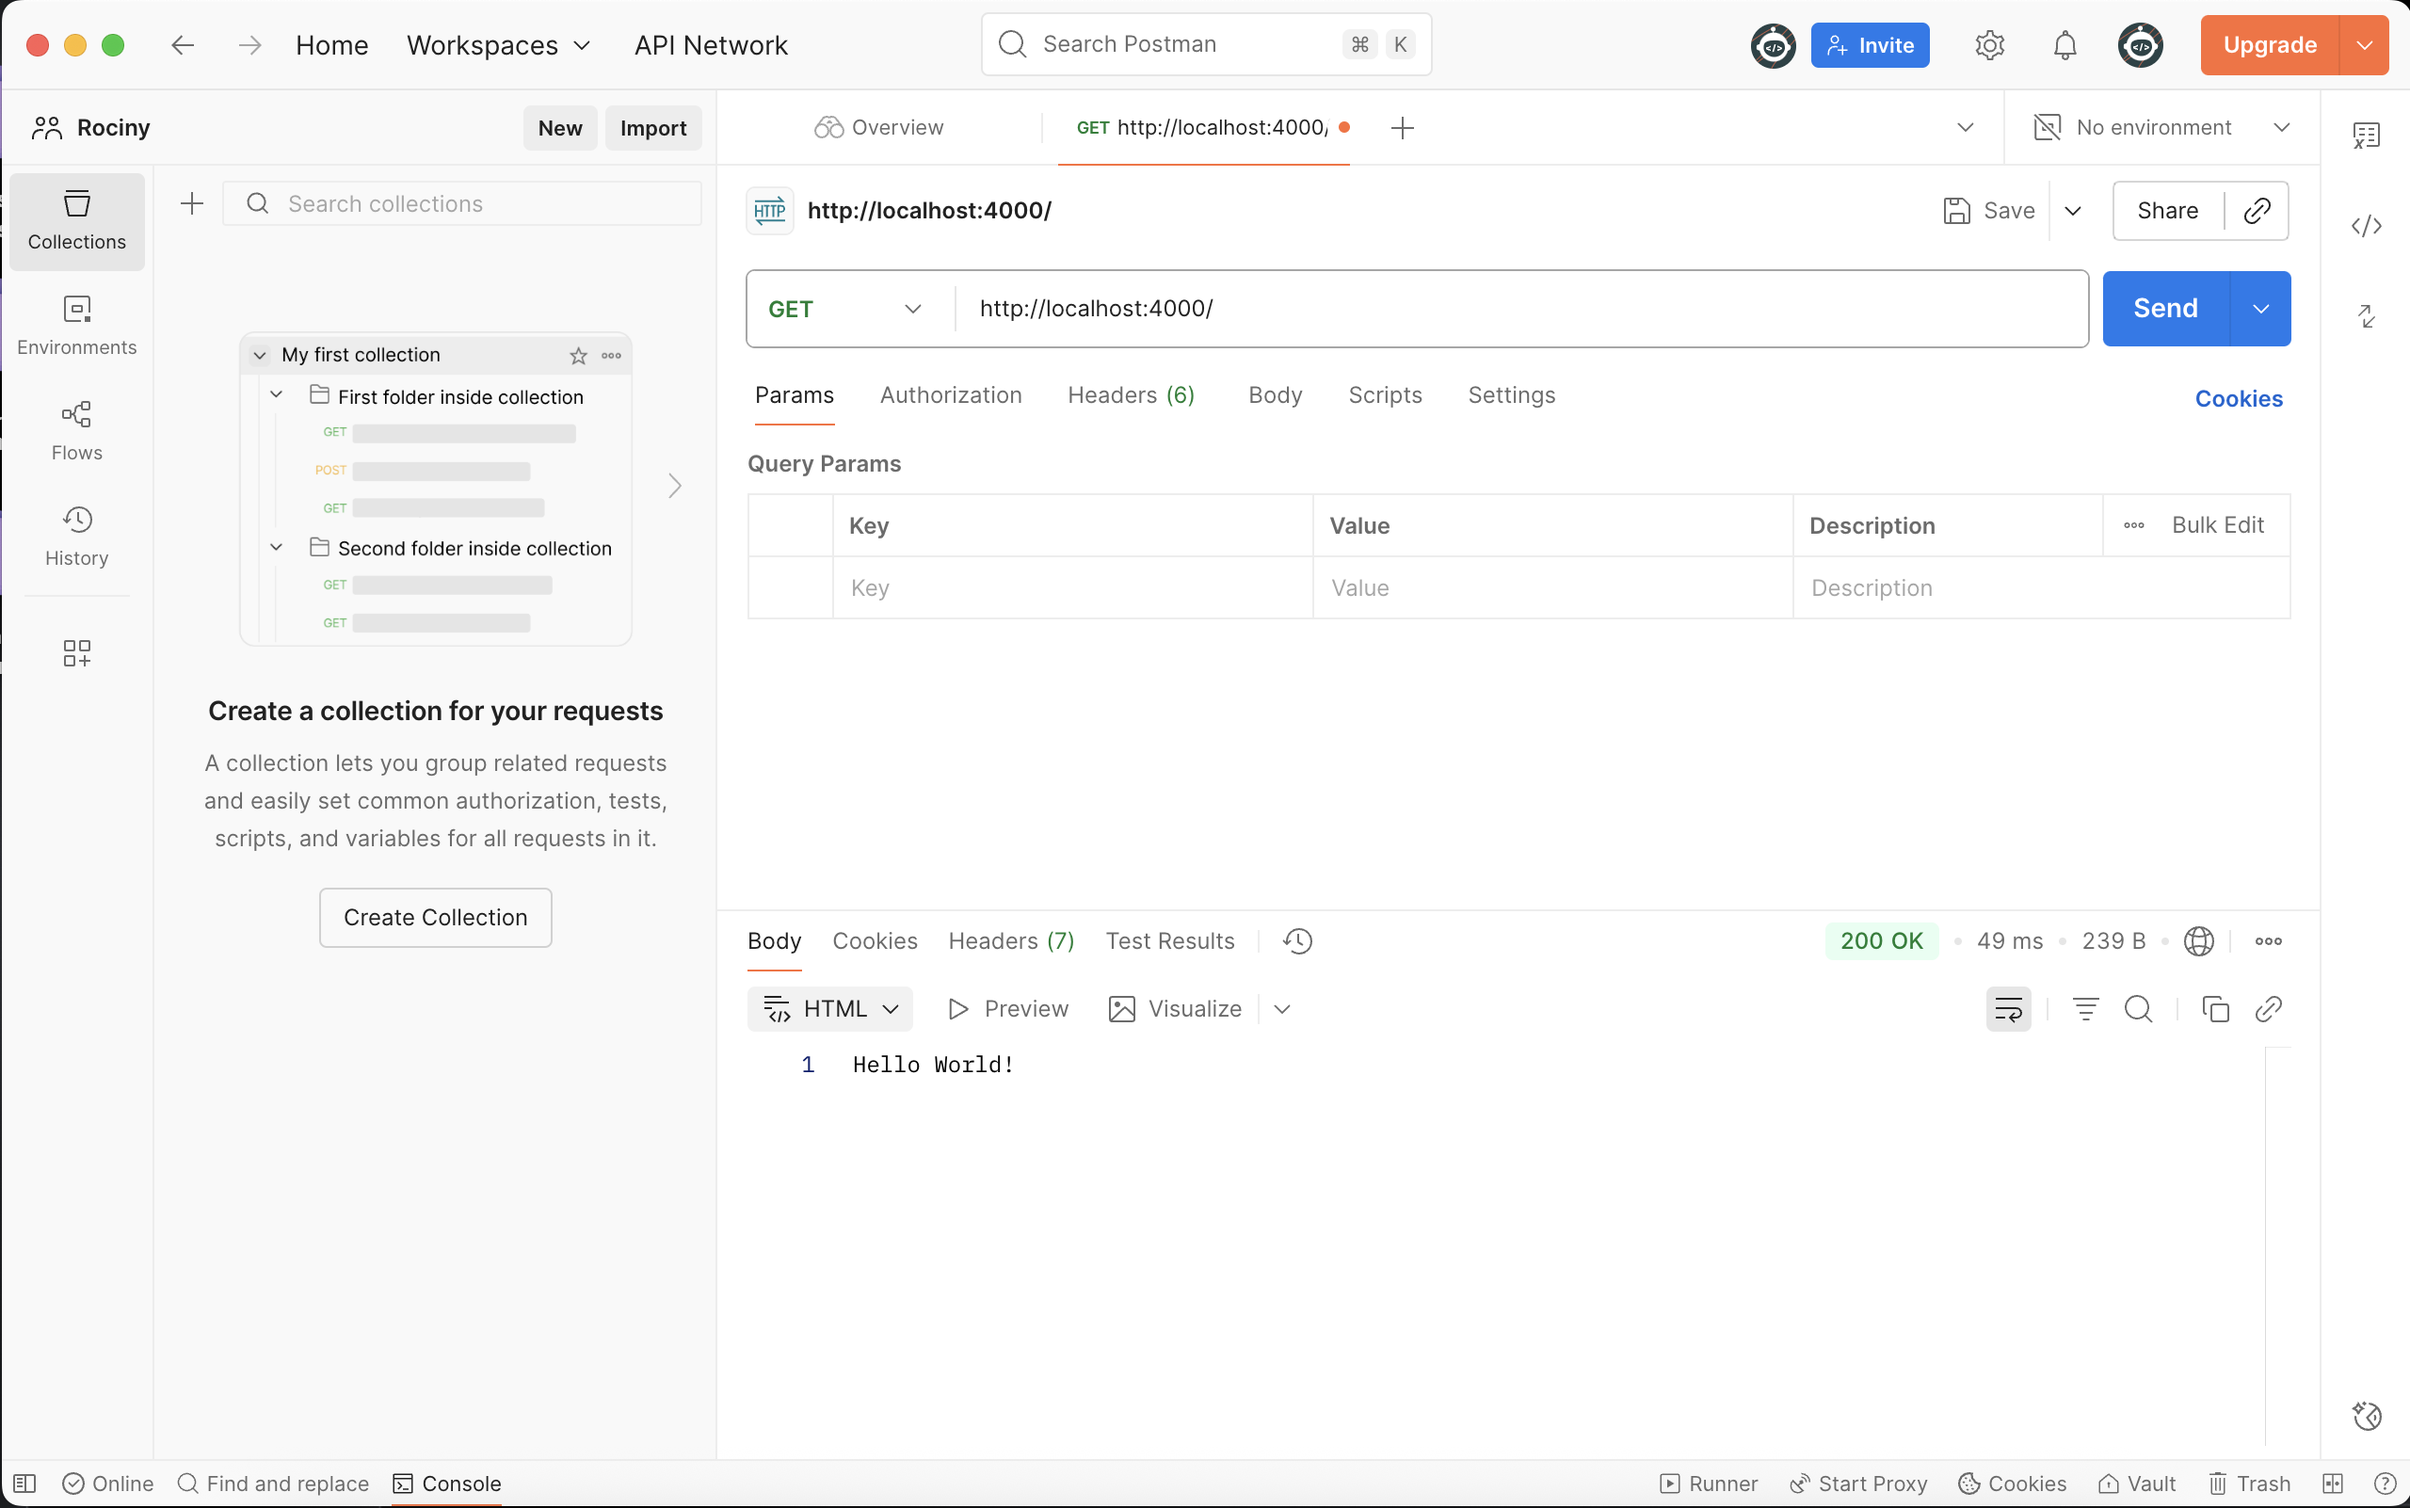
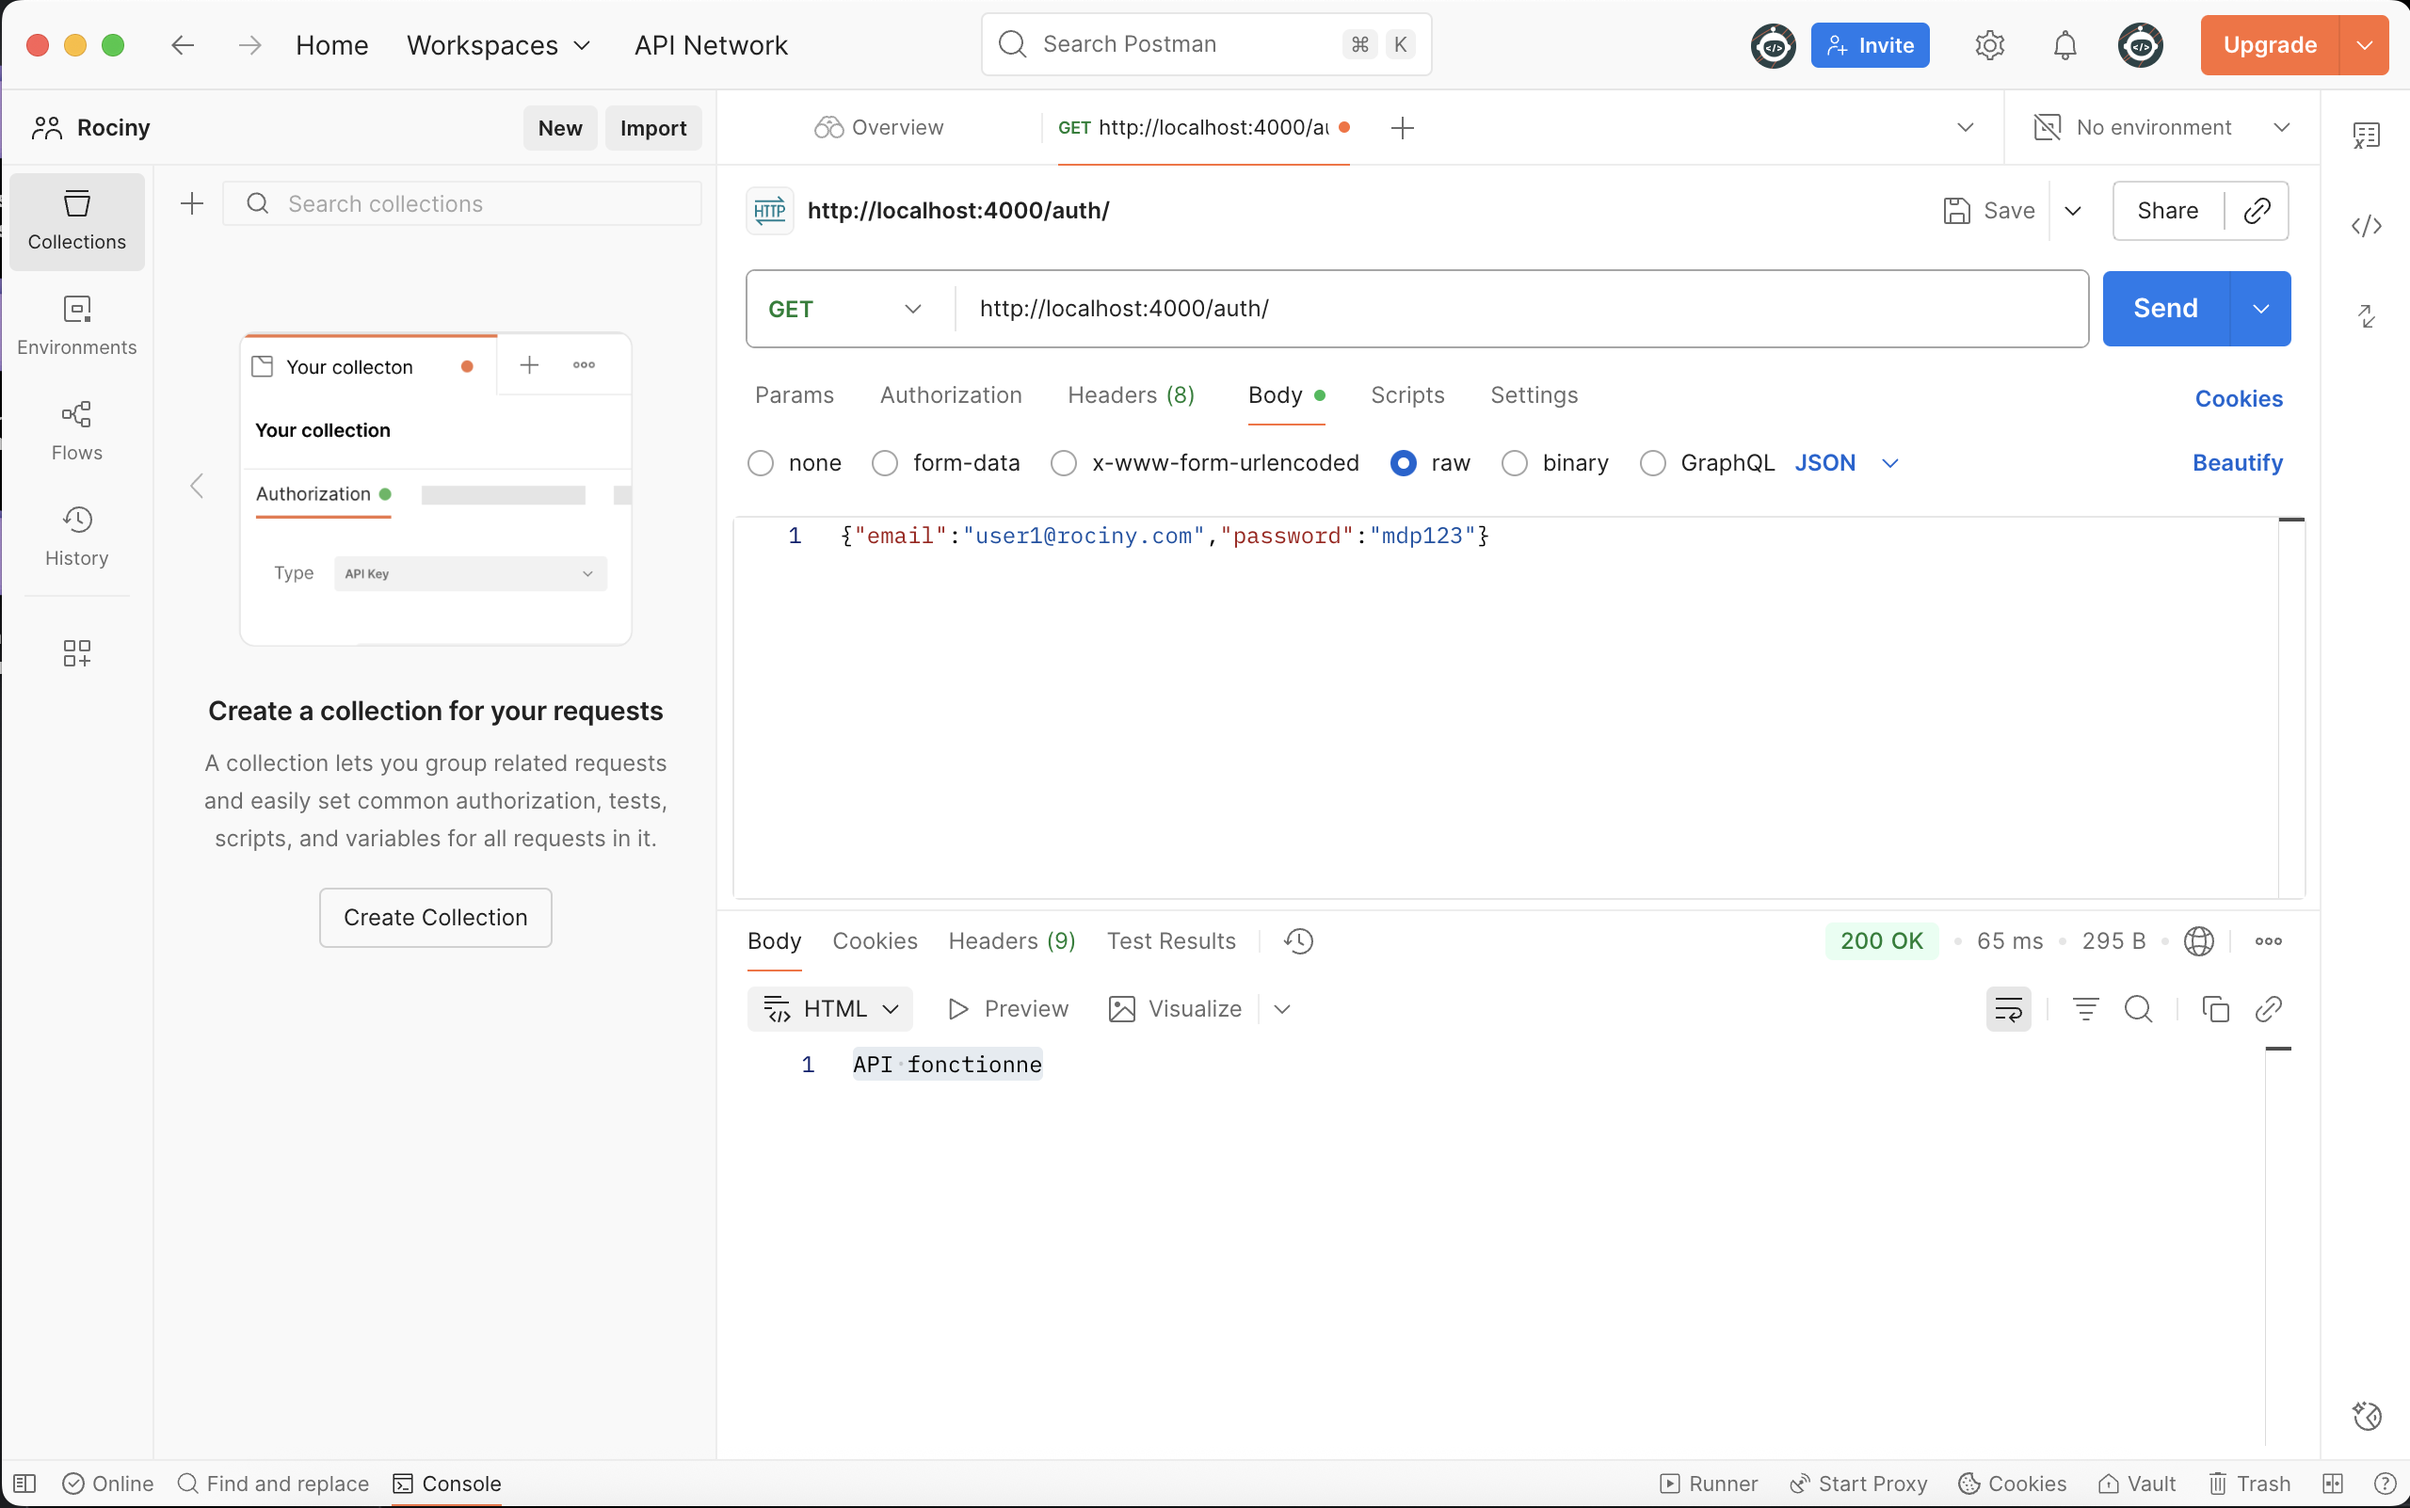
feat(auth): add health and login routes with JWT

diff --git a/src/users/users.service.ts b/src/users/users.service.ts
@@ -1,0 +1,34 @@
+import { Injectable } from '@nestjs/common';
+import { User } from './user.entity';
+import * as bcrypt from 'bcrypt';
+
+@Injectable()
+export class UsersService {
+  // On va simuler une base de données dans la mémoire RAM
+  private users: User[] = [];
+
+  constructor() {
+    // On simule un user de test
+    const password = 'mdp123';
+    const hash = bcrypt.hashSync(password, 10);
+    // Boucle pour créer 10 utilisateurs
+    for (let i = 1; i <= 10; i++) {
+      this.users.push({
+        id: i,
+        email: `user${i}@rociny.com`,
+        passwordHash: hash,
+        name: `User ${i}`,
+      });
+    }
+  }
+  // Comme notre fonction déclaré asynchrone mais n'utilise pas de await dans le corps de la fonction, j'ai igonrer la règle ESLint
+  // et garder la mention async pour une future intégration d'une base de données et qui nécessitera que la fonction soit asynchrone
+  // eslint-disable-next-line @typescript-eslint/require-await
+  async findByEmail(email: string): Promise<User | undefined> {
+    return this.users.find((u) => u.email === email);
+  }
+
+  async validatePassword(user: User, plain: string): Promise<boolean> {
+    return bcrypt.compare(plain, user.passwordHash);
+  }
+}

diff --git a/src/auth/auth.service.ts b/src/auth/auth.service.ts
@@ -1,0 +1,29 @@
+import { Injectable, UnauthorizedException } from '@nestjs/common';
+import { UsersService } from '../users/users.service';
+import { JwtService } from '@nestjs/jwt';
+
+@Injectable()
+export class AuthService {
+  constructor(
+    private users: UsersService,
+    private jwt: JwtService,
+  ) {}
+
+  async login(email: string, password: string) {
+    const user = await this.users.findByEmail(email);
+    if (!user) throw new UnauthorizedException('Identifiant invalide');
+
+    const ok = await this.users.validatePassword(user, password);
+    if (!ok) throw new UnauthorizedException('Identifiant invalide');
+
+    const payload = { sub: user.id, email: user.email };
+    const accessToken = await this.jwt.signAsync(payload, {
+      expiresIn: '1h',
+    });
+
+    return {
+      accessToken,
+      user: { id: user.id, email: user.email, name: user.name },
+    };
+  }
+}

diff --git a/src/auth/strategies/jwt.strategy.ts b/src/auth/strategies/jwt.strategy.ts
@@ -1,0 +1,20 @@
+import { Injectable } from '@nestjs/common';
+import { PassportStrategy } from '@nestjs/passport';
+import { ExtractJwt, Strategy } from 'passport-jwt';
+
+@Injectable()
+export class JwtStrategy extends PassportStrategy(Strategy) {
+  constructor() {
+    super({
+      // eslint-disable-next-line @typescript-eslint/no-unsafe-assignment, @typescript-eslint/no-unsafe-member-access
+      jwtFromRequest: ExtractJwt.fromAuthHeaderAsBearerToken(),
+      ignoreExpiration: false,
+      secretOrKey: (process.env.JWT_SECRET as string) || 'Clé', //Permet à l'API de fonctionner en dev meme sans avoir de .env avec les clés, mais à enlever lors de la production
+    });
+  }
+
+  // payload minimal: { sub , email }
+  validate(payload: { sub: number; email: string }) {
+    return { userId: payload.sub, email: payload.email };
+  }
+}

diff --git a/src/auth/auth.module.ts b/src/auth/auth.module.ts
@@ -1,0 +1,19 @@
+import { Module } from '@nestjs/common';
+import { JwtModule } from '@nestjs/jwt';
+import { UsersModule } from '../users/users.module';
+import { AuthController } from './auth.controller';
+import { AuthService } from './auth.service';
+import { JwtStrategy } from './strategies/jwt.strategy';
+
+@Module({
+  imports: [
+    UsersModule,
+    JwtModule.register({
+      secret: process.env.JWT_SECRET || 'Clé',
+      signOptions: { expiresIn: '1h' },
+    }),
+  ],
+  controllers: [AuthController],
+  providers: [AuthService, JwtStrategy],
+})
+export class AuthModule {}

diff --git a/src/auth/auth.controller.ts b/src/auth/auth.controller.ts
@@ -1,0 +1,20 @@
+import { Body, Controller, Get, Post } from '@nestjs/common';
+import { AuthService } from './auth.service';
+import { LoginDto } from './dto/login.dto';
+
+@Controller('auth')
+export class AuthController {
+  constructor(private readonly auth: AuthService) {}
+
+  // Endpoint de santé : GET /auth
+  @Get('/')
+  health() {
+    return 'API fonctionne';
+  }
+
+  // Endpoint de connexion : POST /auth/login
+  @Post('login')
+  async login(@Body() dto: LoginDto) {
+    return this.auth.login(dto.email, dto.password);
+  }
+}

diff --git a/src/main.ts b/src/main.ts
@@ -1,8 +1,12 @@
+import 'reflect-metadata';
+import { ValidationPipe } from '@nestjs/common';
 import { NestFactory } from '@nestjs/core';
 import { AppModule } from './app.module';
 
 async function bootstrap() {
   const app = await NestFactory.create(AppModule);
-  await app.listen(process.env.PORT ?? 4000);
+  app.enableCors({ origin: true, credentials: true });
+  app.useGlobalPipes(new ValidationPipe({ whitelist: true }));
+  await app.listen(4000);
 }
 bootstrap();

diff --git a/src/app.module.ts b/src/app.module.ts
@@ -1,10 +1,8 @@
 import { Module } from '@nestjs/common';
-import { AppController } from './app.controller';
-import { AppService } from './app.service';
+import { AuthModule } from './auth/auth.module';
+import { UsersModule } from './users/users.module';
 
 @Module({
-  imports: [],
-  controllers: [AppController],
-  providers: [AppService],
+  imports: [UsersModule, AuthModule],
 })
 export class AppModule {}

diff --git a/src/users/users.module.ts b/src/users/users.module.ts
@@ -1,0 +1,8 @@
+import { Module } from '@nestjs/common';
+import { UsersService } from './users.service';
+
+@Module({
+  providers: [UsersService],
+  exports: [UsersService],
+})
+export class UsersModule {}

diff --git a/src/auth/dto/login.dto.ts b/src/auth/dto/login.dto.ts
@@ -1,0 +1,10 @@
+import { IsEmail, IsString, MinLength } from 'class-validator';
+
+export class LoginDto {
+  @IsEmail()
+  email: string;
+
+  @IsString()
+  @MinLength(6)
+  password: string;
+}

diff --git a/src/users/user.entity.ts b/src/users/user.entity.ts
@@ -1,0 +1,6 @@
+export interface User {
+  id: number;
+  email: string;
+  passwordHash: string;
+  name: string;
+}

diff --git a/README.md b/README.md
@@ -18,13 +18,6 @@ npm install
 ```bash
 npm run start
 ```
-4. Test du fonctionnement (Facultatif)
-
-- Après lancement du serveur, soit on ouvre le navigateur sur `http://localhost:4000/`, et on aura comme rendu **Hello World!**.
-
-- Sinon, on utilise Postman sur l'adresse `http://localhost:4000/` avec la méthode `GET`, et on a aura comme rendu **Hello World!**.
-
-![testHealth](./assets/testHealth.png)
 
 ### Convention de nommage des commits
 Ce projet suit la convention Conventional Commits.
@@ -54,3 +47,55 @@ docs(readme): add commit naming convention
 refactor(core): move config module to separate folder
 chore(deps): update NestJS to v11
 ```
+
+### Fonctionnalités actuelles
+
+- Authentification JWT avec Passport
+- Vérification du mot de passe via bcrypt
+- Simulation d’une base de données en mémoire (10 utilisateurs auto-générés)
+- Validation des données avec DTOs + class-validator
+- Routes d’authentification :
+  - GET /auth → test de santé
+  - POST /auth/login → connexion + token JWT
+
+### Endpoints disponibles:
+
+1. GET /auth — Vérification de l’état de l’API
+
+    **But:** s’assurer que l’API fonctionne
+    ```bash
+    curl http://localhost:4000/auth
+    ```
+    **Réponse:** 
+    ```bash
+    API fonctionne
+    ```
+    **Test avec Postman:**
+    ![Health](./assets/testHealth.png)
+---
+2. POST /auth/login — Connexion utilisateur
+
+    **But:** authentifier un utilisateur et retourner un token JWT
+    ```bash
+    curl -X POST http://localhost:4000/auth/login \
+      -H "Content-Type: application/json" \
+      -d '{"email":"user1@rociny.com","password":"mdp123"}'
+    ```
+    **Réponse:** 
+    ```json
+    {
+        "accessToken":    "eyJhbGciOiJIUzI1NiIsInR5cCI6IkpXVCJ9.eyJzdWIiOjEsImVtYWlsIjoidXNlcjFAcm9jaW55LmNvbSIsImlhdCI6MTc2MjIyMDI1MywiZXhwIjoxNzYyMjIzODUzfQ.CK3s6BFnPZY3YnOVYQn2p55V_wZkWyDWeKd_y1HTT2U",
+        "user": {
+            "id": 1,
+            "email": "user1@rociny.com",
+            "name": "User 1"
+        }
+    }
+    ```
+    **Test avec Postman:**
+    ![User 1](./assets/testLoginUser1.png)
+    ![User 1](./assets/testLoginUser3.png)
+
+
+
+
